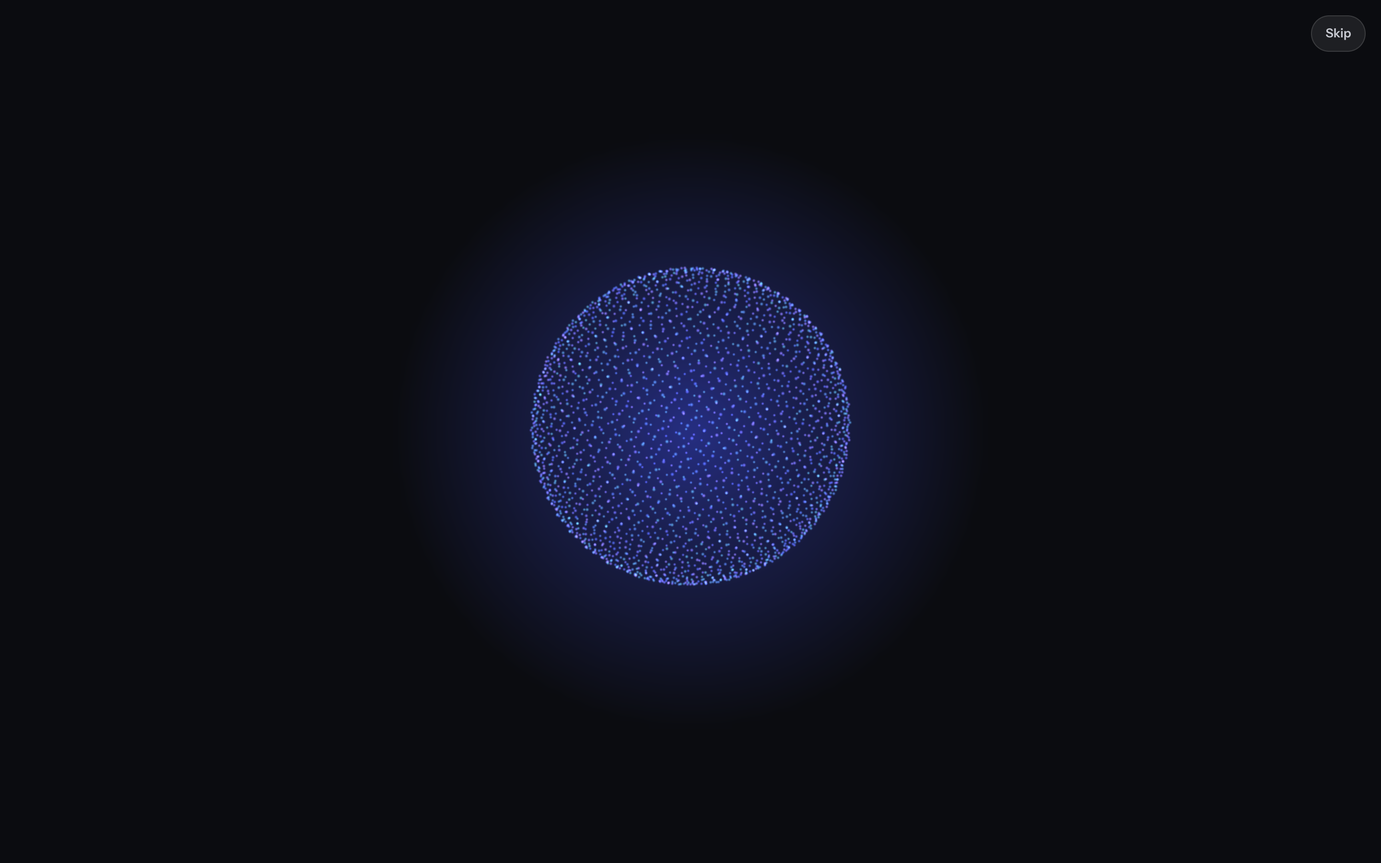
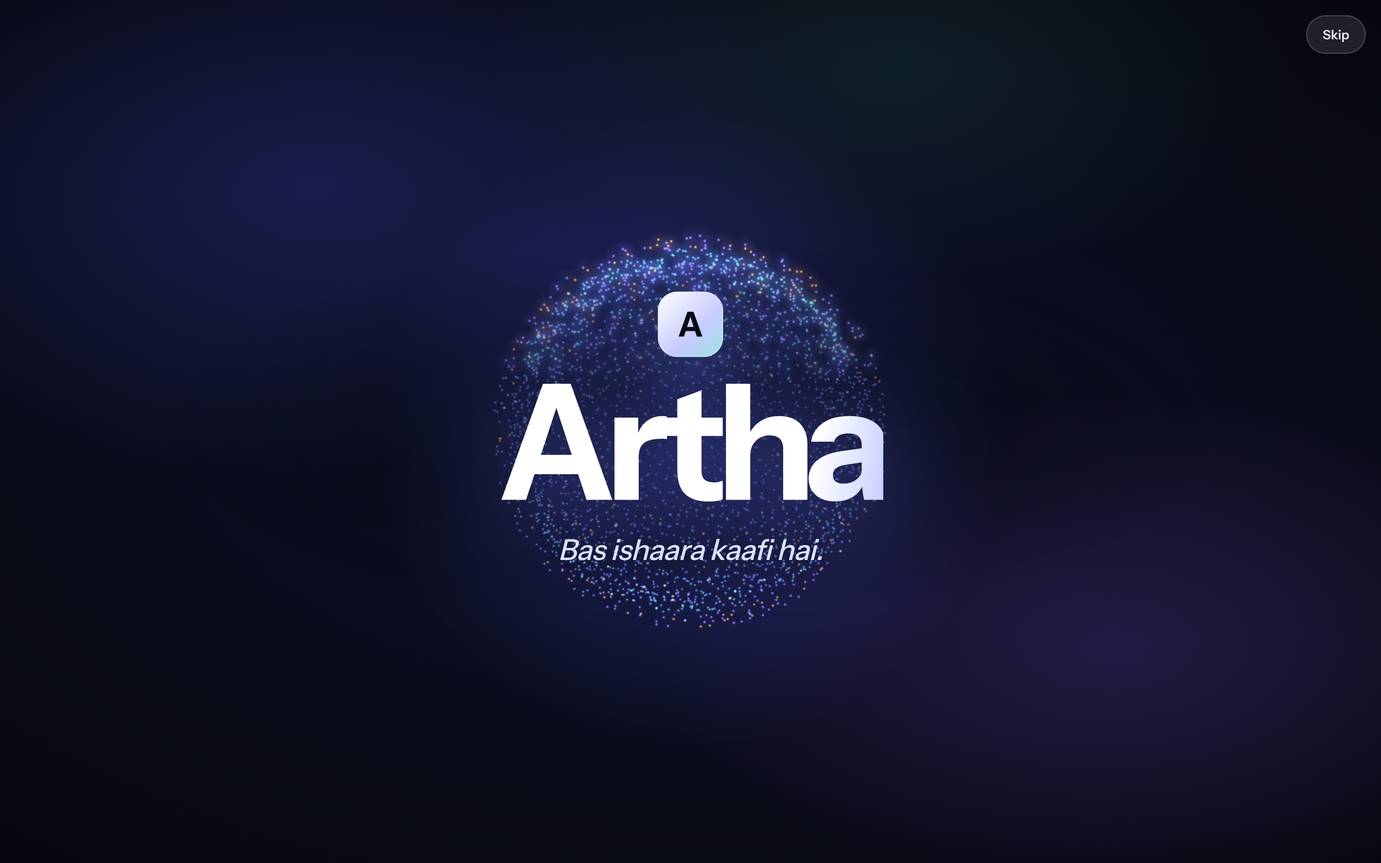
Intro: Bolo in six scripts, legible type with soft backdrops, glowing particle field, what Artha understood (who/when/how much), round orb on phones; timings hidden unless ?debug=1

diff --git a/web/src/Intro.tsx b/web/src/Intro.tsx
@@ -1,15 +1,23 @@
-// The opening, about six seconds, told by one field of light:
-//   1. real voice notes from the demo people, in their own scripts   "Voice notes, in your language"
-//   2. they become one voice wave
-//   3. the wave folds into Artha's orb                               "Artha · Bas ishaara kaafi hai."
+// The opening, about seven seconds, told by one field of light:
+//   1. "Bolo" in six scripts, real voice notes floating around it      "Just say it, in your language."
+//   2. the field becomes one voice wave                                  "Artha listens."
+//   3. the wave folds into Artha's orb; what it understood flies out      who · when · how much
+//   4. the name                                                           "Artha · Bas ishaara kaafi hai."
 // Then the orb drops to where the app's orb lives and the app takes over.
-// One Points mesh, positions blended on the CPU between four shapes; GSAP drives the blend and the words.
+// One Points cloud (plus a soft halo copy for glow), positions blended on the CPU between shapes; GSAP drives it all.
 import gsap from 'gsap';
 import { useEffect, useRef } from 'react';
 import * as THREE from 'three';
 
-const N = 2600;
-const FRAGMENTS = ['Mehta ji ko bol do', 'అమ్మకి చెప్పు', 'செல்விக்கு சொல்லு', 'दुधवाल्यांना पैसे पाठवा', 'Balwinder nu dasso', 'রিয়াকে বলো', 'khate mein likh do', 'kal 4 baje', 'dhai hazaar', 'Salma apa ko bolo'];
+const N = 2800;
+const FRAGMENTS = ['Mehta ji ko bol do', 'అమ్మకి చెప్పు', 'செல்விக்கு சொல்லு', 'दुधवाल्यांना पैसे पाठवा', 'Balwinder nu dasso', 'রিয়াকে বলো', 'khate mein likh do', 'Salma apa ko bolo'];
+const FRAG_POS: [number, number][] = [[6, 14], [70, 10], [4, 74], [64, 80], [74, 32], [10, 40], [36, 88], [40, 6]];
+const WORDS = ['बोलो', 'சொல்லு', 'చెప్పు', 'ਦੱਸੋ', 'বলো', 'Say it.'];
+const CHIPS = [
+  { k: 'who', heard: 'Ayush', got: 'your cricket friend' },
+  { k: 'when', heard: 'kal 7 baje', got: 'Sun, 7:00 AM' },
+  { k: 'money', heard: 'dhai hazaar', got: '₹2,500' },
+];
 
 export function shouldShowIntro() {
   if (typeof window === 'undefined') return false;
@@ -20,10 +28,11 @@ export function shouldShowIntro() {
   try { return sessionStorage.getItem('artha.intro') !== 'seen'; } catch { return true; }
 }
 
-function dotTexture() {
+function dotTexture(soft = false) {
   const c = document.createElement('canvas'); c.width = c.height = 64;
   const g = c.getContext('2d')!; const r = g.createRadialGradient(32, 32, 0, 32, 32, 32);
-  r.addColorStop(0, 'rgba(255,255,255,1)'); r.addColorStop(.35, 'rgba(255,255,255,.55)'); r.addColorStop(1, 'rgba(255,255,255,0)');
+  if (soft) { r.addColorStop(0, 'rgba(255,255,255,.9)'); r.addColorStop(.25, 'rgba(255,255,255,.35)'); r.addColorStop(1, 'rgba(255,255,255,0)'); }
+  else { r.addColorStop(0, 'rgba(255,255,255,1)'); r.addColorStop(.3, 'rgba(255,255,255,.8)'); r.addColorStop(.6, 'rgba(255,255,255,.15)'); r.addColorStop(1, 'rgba(255,255,255,0)'); }
   g.fillStyle = r; g.fillRect(0, 0, 64, 64);
   return new THREE.CanvasTexture(c);
 }
@@ -38,7 +47,7 @@ export function Intro({ onDone }: { onDone: () => void }) {
     const w = () => host.clientWidth, h = () => host.clientHeight;
     const renderer = new THREE.WebGLRenderer({ antialias: true, alpha: true });
     renderer.setPixelRatio(Math.min(2, window.devicePixelRatio));
-    renderer.setSize(w(), h(), false);   // CSS sizes the canvas; we only size the drawing buffer
+    renderer.setSize(w(), h(), false);
     host.appendChild(renderer.domElement);
     let lastW = 0, lastH = 0;
     const scene = new THREE.Scene();
@@ -46,31 +55,39 @@ export function Intro({ onDone }: { onDone: () => void }) {
     camera.position.set(0, 0, 13);
     const narrow = () => w() < 640;
 
-    // four shapes for the same points
+    // the same points take four shapes: a scattered field, a voice wave, the orb, and the exit
     const cloud = new Float32Array(N * 3), wave = new Float32Array(N * 3), sphere = new Float32Array(N * 3), seed = new Float32Array(N);
     for (let i = 0; i < N; i++) {
       seed[i] = Math.random();
-      cloud.set([(Math.random() - .5) * 22, (Math.random() - .5) * 12, (Math.random() - .5) * 8], i * 3);
-      const strand = i % 3, u = (i / N) * 2 - 1;
-      wave.set([u * 9, 0, (strand - 1) * .35], i * 3);
+      const r = 4 + Math.random() * 9, a = Math.random() * Math.PI * 2;           // a ring-ish field, so the centre stays clear for words
+      cloud.set([Math.cos(a) * r * 1.25, Math.sin(a) * r * .62, (Math.random() - .5) * 9], i * 3);
+      const strand = i % 4, u = (i / N) * 2 - 1;
+      wave.set([u * 10, 0, (strand - 1.5) * .3], i * 3);
       const y = 1 - (i / (N - 1)) * 2, rr = Math.sqrt(1 - y * y), th = i * 2.399963;
       sphere.set([Math.cos(th) * rr * 2.3, y * 2.3, Math.sin(th) * rr * 2.3], i * 3);
     }
     const pos = new Float32Array(cloud);
     const col = new Float32Array(N * 3);
-    const cA = new THREE.Color('#5b6cff'), cB = new THREE.Color('#b18cff'), cC = new THREE.Color('#5fd1c4'), tmp = new THREE.Color();
-    for (let i = 0; i < N; i++) { tmp.copy(cA).lerp(seed[i] > .5 ? cB : cC, Math.abs(seed[i] - .5) * 1.6); col.set([tmp.r, tmp.g, tmp.b], i * 3); }
+    const blue = new THREE.Color('#6a7bff'), violet = new THREE.Color('#b48cff'), teal = new THREE.Color('#5fe0cf'), saffron = new THREE.Color('#ffb347'), tmp = new THREE.Color();
+    for (let i = 0; i < N; i++) {
+      if (seed[i] > .93) tmp.copy(saffron);                                       // a few warm sparks
+      else tmp.copy(blue).lerp(seed[i] > .5 ? violet : teal, Math.abs(seed[i] - .5) * 1.7);
+      col.set([tmp.r, tmp.g, tmp.b], i * 3);
+    }
     const geo = new THREE.BufferGeometry();
     geo.setAttribute('position', new THREE.BufferAttribute(pos, 3));
     geo.setAttribute('color', new THREE.BufferAttribute(col, 3));
-    const mat = new THREE.PointsMaterial({ size: .11, map: dotTexture(), vertexColors: true, transparent: true, depthWrite: false, blending: THREE.AdditiveBlending, opacity: 0 });
-    const points = new THREE.Points(geo, mat);
-    scene.add(points);
-    // a soft glow behind the orb
-    const glow = new THREE.Mesh(new THREE.PlaneGeometry(9, 9), new THREE.MeshBasicMaterial({ map: dotTexture(), color: '#3f4fff', transparent: true, opacity: 0, depthWrite: false, blending: THREE.AdditiveBlending }));
-    glow.position.z = -1; scene.add(glow);
+    const mat = new THREE.PointsMaterial({ size: .12, map: dotTexture(), vertexColors: true, transparent: true, depthWrite: false, blending: THREE.AdditiveBlending, opacity: 0 });
+    const halo = new THREE.PointsMaterial({ size: .62, map: dotTexture(true), vertexColors: true, transparent: true, depthWrite: false, blending: THREE.AdditiveBlending, opacity: 0 });
+    // the glow uses a third of the points (they are in random order), so weaker phones keep 60 fps
+    const haloGeo = new THREE.BufferGeometry();
+    haloGeo.setAttribute('position', geo.getAttribute('position')); haloGeo.setAttribute('color', geo.getAttribute('color')); haloGeo.setDrawRange(0, Math.floor(N / 3));
+    const points = new THREE.Points(geo, mat), glowPts = new THREE.Points(haloGeo, halo);
+    scene.add(glowPts, points);
+    const glow = new THREE.Mesh(new THREE.PlaneGeometry(10, 10), new THREE.MeshBasicMaterial({ map: dotTexture(true), color: '#4b5cff', transparent: true, opacity: 0, depthWrite: false, blending: THREE.AdditiveBlending }));
+    glow.position.z = -1.5; scene.add(glow);
 
-    const s = { a: 0, b: 0, c: 0, d: 0, amp: 0 };   // cloud→wave, wave→orb, orb burst, exit
+    const s = { a: 0, b: 0, c: 0, d: 0, amp: 0, spin: 0 };   // field→wave, wave→orb, orb burst, exit
     const mouse = { x: 0, y: 0 };
     const onMove = (e: PointerEvent) => { mouse.x = (e.clientX / innerWidth - .5); mouse.y = (e.clientY / innerHeight - .5); };
     addEventListener('pointermove', onMove);
@@ -79,23 +96,22 @@ export function Intro({ onDone }: { onDone: () => void }) {
     const tick = () => {
       const t = (performance.now() - t0) / 1000;
       if (w() !== lastW || h() !== lastH) { lastW = w(); lastH = h(); renderer.setSize(lastW, lastH, false); camera.aspect = lastW / lastH; camera.updateProjectionMatrix(); }
-      const scale = narrow() ? .62 : 1;
+      const scale = narrow() ? .6 : 1, drop = narrow() ? 4.4 : 3.4;
       for (let i = 0; i < N; i++) {
         const k = i * 3, sd = seed[i];
-        // the wave lives: three strands, a travelling envelope like a voice
-        const x = wave[k], env = Math.exp(-((x / 9) ** 2) * 2.2);
-        const wy = Math.sin(x * 1.25 - t * 4 + (i % 3) * 1.9) * s.amp * env * (0.6 + .4 * Math.sin(x * .4 + t * 1.3)) + (sd - .5) * .12;
-        let px = cloud[k] + Math.sin(t * .3 + sd * 6) * .3, py = cloud[k + 1] + Math.cos(t * .25 + sd * 5) * .3, pz = cloud[k + 2];
+        const x = wave[k], env = Math.exp(-((x / 10) ** 2) * 2.4);                     // a voice: loud in the middle, quiet at the ends
+        const wy = Math.sin(x * 1.15 - t * 4.2 + (i % 4) * 1.6) * s.amp * env * (0.55 + .45 * Math.sin(x * .45 + t * 1.6)) + (sd - .5) * .1;
+        let px = cloud[k] + Math.sin(t * .35 + sd * 6) * .35, py = cloud[k + 1] + Math.cos(t * .3 + sd * 5) * .3, pz = cloud[k + 2];
         px += (x - px) * s.a; py += (wy - py) * s.a; pz += (wave[k + 2] - pz) * s.a;
-        const br = 1 + s.c * (.25 + sd * .5) * (0.5 + .5 * Math.sin(t * 2 + sd * 9));
+        const br = 1 + s.c * (.3 + sd * .6) * (0.5 + .5 * Math.sin(t * 2.2 + sd * 9));
         px += (sphere[k] * br - px) * s.b; py += (sphere[k + 1] * br - py) * s.b; pz += (sphere[k + 2] * br - pz) * s.b;
         const ex = 1 - s.d * .82;
-        pos[k] = px * scale * ex; pos[k + 1] = py * scale * ex - s.d * (narrow() ? 4.2 : 3.4); pos[k + 2] = pz * ex;
+        pos[k] = px * scale * ex; pos[k + 1] = (py * scale - (narrow() && s.b < .5 ? 0 : 0)) * ex - s.d * drop; pos[k + 2] = pz * scale * ex;   // shrink depth too, or the spinning orb looks oval on phones
       }
       geo.attributes.position.needsUpdate = true;
-      points.rotation.y = s.b * t * .25 + mouse.x * .3;
-      points.rotation.x = mouse.y * .2;
-      glow.position.y = -s.d * (narrow() ? 4.2 : 3.4);
+      const ry = s.spin * t * .28 + mouse.x * .35, rx = mouse.y * .22;
+      points.rotation.set(rx, ry, 0); glowPts.rotation.set(rx, ry, 0);
+      glow.position.y = -s.d * drop;
       renderer.render(scene, camera);
       raf = requestAnimationFrame(tick);
     };
@@ -107,33 +123,52 @@ export function Intro({ onDone }: { onDone: () => void }) {
     const q = (sel: string) => el.querySelectorAll<HTMLElement>(sel);
     gsap.ticker.lagSmoothing(0);   // the story keeps its real length even when a slow phone drops frames
     const tl = gsap.timeline({ defaults: { ease: 'power3.out' } });
-    // 1. real voice notes, in their own scripts
-    tl.to(mat, { opacity: .9, duration: .9 }, 0)
-      .fromTo(q('.frag'), { opacity: 0, y: 10 }, { opacity: (i: number) => .4 + (i % 3) * .2, y: 0, duration: .7, stagger: .05 }, .1)
-      .fromTo(q('.b1'), { opacity: 0, y: 12 }, { opacity: 1, y: 0, duration: .6 }, .35)
-      // 2. they become one voice
-      .to(q('.frag'), { opacity: 0, y: -8, duration: .45, stagger: .02 }, 1.7)
-      .to(q('.b1'), { opacity: 0, y: -10, duration: .4 }, 1.75)
-      .to(s, { a: 1, duration: 1.1, ease: 'power2.inOut' }, 1.7)
-      .to(s, { amp: 1.3, duration: .8, ease: 'sine.inOut' }, 1.9)
-      // 3. and Artha understands
-      .to(s, { b: 1, duration: 1.1, ease: 'expo.inOut' }, 3.0)
-      .to(s, { amp: 0, duration: .6 }, 3.0)
-      .to(glow.material, { opacity: .5, duration: .9 }, 3.4)
-      .to(s, { c: .6, duration: .35, ease: 'back.out(3)' }, 4.0).to(s, { c: .2, duration: .8 }, 4.35)
-      .fromTo(q('.b4 > *'), { opacity: 0, y: 16 }, { opacity: 1, y: 0, duration: .6, stagger: .1 }, 3.9);
+    // 1. Bolo, in six scripts, with real voice notes around it
+    tl.to(mat, { opacity: 1, duration: .8 }, 0).to(halo, { opacity: .13, duration: 1 }, 0)
+      .fromTo(q('.frag'), { opacity: 0, y: 14, scale: .94 }, { opacity: 1, y: 0, scale: 1, duration: .7, stagger: .05 }, .15)
+      .fromTo(q('.b1'), { opacity: 0 }, { opacity: 1, duration: .3 }, .2)
+      .fromTo(q('.b1 .sub'), { opacity: 0, y: 10 }, { opacity: 1, y: 0, duration: .6 }, .7);
+    const words = [...q('.vw')];
+    words.forEach((wd, i) => {
+      const at = .25 + i * .26;
+      tl.fromTo(wd, { opacity: 0, yPercent: 40, filter: 'blur(8px)' }, { opacity: 1, yPercent: 0, filter: 'blur(0px)', duration: .22, ease: 'power2.out' }, at);
+      if (i < words.length - 1) tl.to(wd, { opacity: 0, yPercent: -40, filter: 'blur(8px)', duration: .2, ease: 'power2.in' }, at + .24);
+    });
+    // 2. it becomes one voice
+    tl.to(q('.frag'), { opacity: 0, y: -10, duration: .4, stagger: .02 }, 2.1)
+      .to(q('.b1'), { opacity: 0, y: -14, duration: .4 }, 2.1)
+      .to(s, { a: 1, duration: 1.1, ease: 'power2.inOut' }, 2.05)
+      .to(s, { amp: 1.45, duration: .8, ease: 'sine.inOut' }, 2.3)
+      .fromTo(q('.b2'), { opacity: 0, y: 16, scale: .96 }, { opacity: 1, y: 0, scale: 1, duration: .6 }, 2.4)
+      // 3. Artha understands: who, when, how much
+      .to(q('.b2'), { opacity: 0, y: -12, duration: .35 }, 3.55)
+      .to(s, { b: 1, duration: 1.05, ease: 'expo.inOut' }, 3.5)
+      .to(s, { amp: 0, duration: .6 }, 3.5).to(s, { spin: 1, duration: 1.2 }, 3.6)
+      .to(glow.material, { opacity: .6, duration: .9 }, 3.9)
+      .to(s, { c: .7, duration: .35, ease: 'back.out(3)' }, 4.35).to(s, { c: .22, duration: .9 }, 4.7)
+      .fromTo(q('.chip-i'), { opacity: 0, scale: .6, x: 0, y: 0, xPercent: -50, yPercent: -50 },
+        { opacity: 1, scale: 1, xPercent: -50, yPercent: -50, x: (i: number) => (narrow() ? 0 : [-300, 300, 0][i]), y: (i: number) => (narrow() ? [-235, -170, 175][i] : [-70, -70, 175][i]), duration: .8, stagger: .12, ease: 'back.out(1.5)' }, 4.4)
+      .fromTo(q('.b3'), { opacity: 0, y: 12 }, { opacity: 1, y: 0, duration: .5 }, 4.7)
+      // 4. the name
+      .to(q('.chip-i'), { opacity: 0, scale: .85, x: 0, y: 0, duration: .45, stagger: .04, ease: 'power2.in' }, 6.0)
+      .to(q('.b3'), { opacity: 0, duration: .3 }, 6.0)
+      .fromTo(q('.b4 > *'), { opacity: 0, y: 22 }, { opacity: 1, y: 0, duration: .7, stagger: .1 }, 6.25)
+      .fromTo(q('.name'), { backgroundPosition: '120% 0' }, { backgroundPosition: '-20% 0', duration: 1.6, ease: 'power1.inOut' }, 6.3);
     const finish = () => {
       if (done.current) return; done.current = true;
       try { sessionStorage.setItem('artha.intro', 'seen'); } catch { /* */ }
       tl.pause();
       gsap.timeline({ onComplete: onDone })
-        .to(q('.b4, .b1, .skip'), { opacity: 0, duration: .35 }, 0)
-        .to(s, { d: 1, duration: 1, ease: 'expo.inOut' }, 0)
-        .to(el, { backgroundColor: 'rgba(11,12,16,0)', duration: .9, ease: 'power2.inOut' }, .2)
-        .to(mat, { opacity: 0, duration: .5 }, .7)
+        .to(q('.b1, .b2, .b3, .b4, .chip-i, .frag, .skip'), { opacity: 0, duration: .3 }, 0)
+        .to(s, { b: 1, a: 1, amp: 0, d: 1, duration: 1, ease: 'expo.inOut' }, 0)
+        .to(el, { '--fade': 0, duration: .9, ease: 'power2.inOut' } as any, .2)
+        .to([mat, halo], { opacity: 0, duration: .5 }, .7)
         .to(glow.material, { opacity: 0, duration: .5 }, .6);
     };
-    tl.call(finish, [], 6.2);
+    tl.call(finish, [], 7.9);
+    // ?intro=1&introAt=4.6 freezes the intro at that second (for checking a beat)
+    const at = Number(new URLSearchParams(location.search).get('introAt'));
+    if (at > 0) { tl.seek(Math.min(at, 7.8)).pause(); }
     const onKey = (e: KeyboardEvent) => { if (['Enter', ' ', 'Escape'].includes(e.key)) finish(); };
     addEventListener('keydown', onKey);
     (el as any)._finish = finish;
@@ -141,16 +176,23 @@ export function Intro({ onDone }: { onDone: () => void }) {
     return () => {
       tl.kill(); cancelAnimationFrame(raf); gsap.ticker.lagSmoothing(500, 33);
       removeEventListener('pointermove', onMove); removeEventListener('resize', onResize); ro.disconnect(); removeEventListener('keydown', onKey);
-      geo.dispose(); mat.dispose(); renderer.dispose(); renderer.domElement.remove();
+      geo.dispose(); haloGeo.dispose(); mat.dispose(); halo.dispose(); renderer.dispose(); renderer.domElement.remove();
     };
   }, [onDone]);
 
   const finish = () => (root.current as any)?._finish?.();
   return (
     <div className="intro" ref={root} role="dialog" aria-label="Artha introduction" onClick={finish}>
+      <div className="intro-sky" aria-hidden="true" />
       <div className="intro-gl" ref={canvasHost} />
-      <div className="frags" aria-hidden="true">{FRAGMENTS.map((f, i) => <span key={f} className="frag" style={{ left: `${[8, 64, 22, 70, 6, 52, 30, 78, 14, 44][i]}%`, top: `${[16, 12, 30, 34, 62, 70, 82, 58, 44, 22][i]}%` }}>{f}</span>)}</div>
-      <div className="beat b1 low"><p className="eyebrow">Voice notes, in your language</p></div>
+      <div className="frags" aria-hidden="true">{FRAGMENTS.map((f, i) => <span key={f} className={`frag ${FRAG_POS[i][0] > 50 ? 'r' : ''}`} style={{ left: `${FRAG_POS[i][0]}%`, top: `${FRAG_POS[i][1]}%` }}>{f}</span>)}</div>
+      <div className="beat b1">
+        <div className="vwords" aria-label="Bolo, in six languages">{WORDS.map(wd => <span key={wd} className="vw">{wd}</span>)}</div>
+        <p className="sub">Just say it, in your language.</p>
+      </div>
+      <div className="beat b2"><h2 className="big">Artha listens.</h2></div>
+      <div className="chips-i" aria-hidden="true">{CHIPS.map(c => <span key={c.k} className={`chip-i ${c.k}`}><i /><em>“{c.heard}”</em><span className="arr">→</span><b>{c.got}</b></span>)}</div>
+      <div className="beat b3 low"><p>Knows who you mean, and when, and how much.</p></div>
       <div className="beat b4">
         <span className="mark">A</span>
         <h1 className="name">Artha</h1>

diff --git a/web/src/styles.css b/web/src/styles.css
@@ -367,30 +367,61 @@ a.btn { text-decoration: none; }
 .kd { color: var(--green); font-size: 12px; font-weight: 600; display: grid; place-items: center; width: 64px; }
 
 /* ================= intro ================= */
-.intro { position: fixed; inset: 0; z-index: 100; background: #0b0c10; color: #f3f2ee; overflow: hidden; cursor: pointer; font-family: var(--font); }
+.intro { --fade: 1; position: fixed; inset: 0; z-index: 100; overflow: hidden; cursor: pointer; color: #f6f5ff; font-family: var(--font);
+  background: rgb(6 7 14 / var(--fade)); }
+.intro-sky { position: absolute; inset: -20%; opacity: var(--fade); pointer-events: none;
+  background: radial-gradient(40% 35% at 30% 30%, rgba(76, 92, 255, .22), transparent 70%), radial-gradient(35% 30% at 72% 68%, rgba(150, 95, 255, .18), transparent 70%),
+              radial-gradient(30% 25% at 60% 20%, rgba(70, 210, 190, .10), transparent 70%), radial-gradient(70% 60% at 50% 50%, rgba(20, 24, 60, .6), transparent 80%);
+  animation: sky 14s ease-in-out infinite alternate; }
+@keyframes sky { to { transform: translate3d(3%, -2%, 0) rotate(4deg) scale(1.05); } }
 .intro-gl { position: absolute; inset: 0; } .intro-gl canvas { display: block; width: 100%; height: 100%; }
-.intro .beat { position: absolute; left: 50%; top: 50%; transform: translate(-50%, -50%); width: min(880px, calc(100% - 40px)); text-align: center; pointer-events: none; opacity: 0; }
-.intro .b1 { opacity: 1; } .intro .b1 .w { display: inline-block; opacity: 0; margin: 0 .12em; }
-.intro .eyebrow { font-size: 12.5px; font-weight: 700; letter-spacing: .22em; text-transform: uppercase; color: #8f9bff; margin-bottom: 18px; }
-.intro h1 { font-size: clamp(30px, 5.4vw, 64px); font-weight: 600; letter-spacing: -.045em; line-height: 1.04; text-wrap: balance; }
-.intro .big { font-size: clamp(44px, 9vw, 120px); letter-spacing: -.06em; background: linear-gradient(100deg, #fff 20%, #a9b3ff 60%, #7ee0d3); -webkit-background-clip: text; background-clip: text; color: transparent; }
-.intro .low { top: auto; bottom: 11vh; transform: translateX(-50%); }
-.intro .b3 p { font-size: clamp(17px, 2.2vw, 24px); color: #c9cbd3; letter-spacing: -.01em; } .intro .b3 b { color: #fff; font-weight: 600; }
+.intro .beat { position: absolute; left: 50%; top: 50%; transform: translate(-50%, -50%); width: min(960px, calc(100% - 40px)); text-align: center; pointer-events: none; opacity: 0; display: grid; justify-items: center; gap: 14px; }
+/* every line gets a soft dark halo behind it, so it reads over the light */
+.intro .beat::before { content: ''; position: absolute; inset: -18% -8%; z-index: -1; background: radial-gradient(closest-side, rgba(6, 7, 14, .78), rgba(6, 7, 14, .35) 60%, transparent); filter: blur(6px); }
+.intro .vwords { position: relative; height: clamp(76px, 13vw, 150px); width: 100%; }
+.intro .vw { position: absolute; inset: 0; display: grid; place-items: center; opacity: 0; font-weight: 700; letter-spacing: -.03em; line-height: 1;
+  font-size: clamp(64px, 12vw, 140px); font-family: var(--font), 'Noto Sans Tamil', 'Noto Sans Telugu', 'Noto Sans Gurmukhi', 'Noto Sans Bengali', sans-serif;
+  background: linear-gradient(180deg, #ffffff 30%, #c9cfff); -webkit-background-clip: text; background-clip: text; color: transparent;
+  filter: drop-shadow(0 6px 40px rgba(110, 125, 255, .55)); }
+.intro .sub { font-size: clamp(18px, 2.4vw, 26px); font-weight: 500; color: #e4e6ff; letter-spacing: -.01em; text-shadow: 0 2px 20px rgba(0, 0, 0, .6); }
+.intro .big { margin: 0; font-size: clamp(48px, 9vw, 112px); font-weight: 700; letter-spacing: -.055em; line-height: 1;
+  background: linear-gradient(100deg, #ffffff 25%, #b9c2ff 55%, #7ff0de 90%); -webkit-background-clip: text; background-clip: text; color: transparent;
+  filter: drop-shadow(0 8px 44px rgba(90, 110, 255, .55)); }
+.intro .b2 { top: 30%; }
+.intro .low { top: auto; bottom: 9vh; transform: translateX(-50%); }
+.intro .b3 p { font-size: clamp(18px, 2.4vw, 26px); font-weight: 600; color: #f1f1ff; letter-spacing: -.015em; text-shadow: 0 2px 24px rgba(0, 0, 0, .7); }
 .intro .frags { position: absolute; inset: 0; pointer-events: none; }
-.intro .frag { position: absolute; font-size: clamp(13px, 1.5vw, 17px); color: #cfd3ff; padding: 6px 12px; border: 1px solid rgba(160,170,255,.22); border-radius: 999px; background: rgba(40,46,90,.25); backdrop-filter: blur(6px); white-space: nowrap; opacity: 0; font-family: var(--font), 'Noto Sans Bengali', 'Noto Sans Gurmukhi', sans-serif; }
+.intro .frag { position: absolute; opacity: 0; white-space: nowrap; font-size: clamp(13px, 1.45vw, 17px); font-weight: 600; color: #f2f3ff;
+  padding: 8px 14px; border-radius: 999px; background: linear-gradient(180deg, rgba(255, 255, 255, .14), rgba(255, 255, 255, .06));
+  border: 1px solid rgba(255, 255, 255, .22); box-shadow: 0 10px 30px -12px rgba(80, 100, 255, .7), inset 0 1px 0 rgba(255, 255, 255, .18); backdrop-filter: blur(8px);
+  font-family: var(--font), 'Noto Sans Bengali', 'Noto Sans Gurmukhi', sans-serif; }
+.intro .frag::before { content: ''; display: inline-block; width: 7px; height: 7px; margin-right: 8px; border-radius: 50%; background: #7ff0de; box-shadow: 0 0 10px #7ff0de; vertical-align: 1px; }
 .intro .chips-i { position: absolute; left: 50%; top: 50%; width: 0; height: 0; pointer-events: none; }
-.intro .chip-i { position: absolute; display: inline-flex; align-items: center; gap: 9px; white-space: nowrap; padding: 10px 16px; border-radius: 16px; font-size: clamp(13px, 1.4vw, 16px); font-weight: 600; color: #fff; background: rgba(22,24,36,.72); border: 1px solid rgba(255,255,255,.12); box-shadow: 0 20px 50px -20px rgba(80,96,255,.7); backdrop-filter: blur(10px); opacity: 0; left: 0; top: 0; }
-.intro .chip-i i { width: 9px; height: 9px; border-radius: 50%; background: #8f9bff; box-shadow: 0 0 12px currentColor; }
-.intro .chip-i.when i { background: #c49df1; } .intro .chip-i.money i { background: #62c890; } .intro .chip-i.act i { background: #5fd1c4; }
-.intro .b4 { display: grid; justify-items: center; gap: 10px; pointer-events: auto; opacity: 1; }
+.intro .chip-i { position: absolute; left: 0; top: 0; opacity: 0; display: inline-flex; align-items: center; gap: 10px; white-space: nowrap;
+  padding: 12px 18px; border-radius: 18px; font-size: clamp(14px, 1.5vw, 17px); color: #fff;
+  background: linear-gradient(180deg, rgba(30, 34, 60, .92), rgba(16, 18, 34, .92)); border: 1px solid rgba(255, 255, 255, .16);
+  box-shadow: 0 24px 60px -24px rgba(90, 110, 255, .9), inset 0 1px 0 rgba(255, 255, 255, .12); backdrop-filter: blur(12px); }
+.intro .chip-i i { width: 10px; height: 10px; border-radius: 50%; flex: none; background: #8f9bff; box-shadow: 0 0 14px #8f9bff; }
+.intro .chip-i.when i { background: #c49df1; box-shadow: 0 0 14px #c49df1; } .intro .chip-i.money i { background: #ffb347; box-shadow: 0 0 14px #ffb347; }
+.intro .chip-i em { font-style: normal; color: #c4c8e8; } .intro .chip-i .arr { color: #7ff0de; font-weight: 700; } .intro .chip-i b { font-weight: 700; }
+.intro .b4 { display: grid; justify-items: center; gap: 12px; opacity: 1; }
 .intro .b4 > * { opacity: 0; }
-.intro .mark { width: 64px; height: 64px; border-radius: 18px; display: grid; place-items: center; font-size: 34px; font-weight: 700; color: #0b0c10; background: linear-gradient(135deg, #fff, #c8ceff); box-shadow: 0 20px 60px -15px rgba(110,125,255,.8); }
-.intro .name { font-size: clamp(52px, 10vw, 132px); letter-spacing: -.065em; line-height: .95; }
-.intro .tag { font-size: clamp(18px, 2.6vw, 28px); color: #b9bdf5; font-style: italic; letter-spacing: -.01em; }
-.intro .go { margin-top: 14px; height: 48px; padding: 0 26px; border-radius: 999px; background: #fff; color: #0b0c10; font-weight: 700; font-size: 15.5px; box-shadow: 0 16px 40px -14px rgba(255,255,255,.5); transition: transform .2s; }
-.intro .go:hover { transform: translateY(-2px); }
-.intro .skip { position: absolute; top: max(16px, env(safe-area-inset-top)); right: 16px; padding: 8px 14px; border-radius: 999px; font-size: 13px; font-weight: 600; color: #c9cbd3; background: rgba(255,255,255,.08); border: 1px solid rgba(255,255,255,.12); }
-@media (max-width: 640px) { .intro .frag:nth-child(n+7) { display: none; } .intro .low { bottom: 8vh; } }
+.intro .mark { width: 68px; height: 68px; border-radius: 20px; display: grid; place-items: center; font-size: 36px; font-weight: 700; color: #090a12;
+  background: linear-gradient(135deg, #ffffff, #c8ceff 60%, #9fe9dd); box-shadow: 0 24px 70px -14px rgba(110, 125, 255, .9), 0 0 0 1px rgba(255, 255, 255, .4) inset; }
+.intro .name { margin: 0; font-size: clamp(72px, 13vw, 168px); font-weight: 700; letter-spacing: -.07em; line-height: .92;
+  background: linear-gradient(100deg, #ffffff 0%, #ffffff 38%, #b6c0ff 48%, #7ff0de 52%, #ffffff 62%, #ffffff 100%); background-size: 250% 100%;
+  -webkit-background-clip: text; background-clip: text; color: transparent; filter: drop-shadow(0 10px 50px rgba(100, 115, 255, .55)); }
+.intro .tag { font-size: clamp(20px, 2.8vw, 30px); font-weight: 500; font-style: italic; color: #dfe2ff; letter-spacing: -.01em; text-shadow: 0 2px 20px rgba(0, 0, 0, .6); }
+.intro .skip { position: absolute; top: max(16px, env(safe-area-inset-top)); right: max(16px, env(safe-area-inset-right)); padding: 9px 16px; border-radius: 999px;
+  font-size: 13.5px; font-weight: 600; color: #e9eaff; background: rgba(255, 255, 255, .1); border: 1px solid rgba(255, 255, 255, .2); backdrop-filter: blur(8px); }
+@media (max-width: 640px) {
+  .intro .frag:nth-child(n+6) { display: none; }
+  .intro .frag { font-size: 12.5px; padding: 6px 11px; }
+  .intro .frag.r { left: auto !important; right: 4%; }
+  .intro .chip-i { font-size: 13.5px; padding: 10px 14px; gap: 7px; }
+  .intro .b2 { top: 27%; }
+}
+@media (prefers-reduced-motion: reduce) { .intro-sky { animation: none; } }
 
 /* answers as a headline + labelled points */
 .say.answer { display: flex; align-items: flex-start; gap: 10px; padding: 12px 14px 12px 10px; cursor: default; max-width: min(92%, 560px); }

diff --git a/web/src/App.tsx b/web/src/App.tsx
@@ -37,6 +37,7 @@ type Run = {
   compare?: { loading: boolean; baseHeard?: string; base?: Result; ctx?: Result; error?: string };
 };
 let seq = 0;
+const SHOW_TIMES = typeof location !== 'undefined' && new URLSearchParams(location.search).has('debug');
 const nonLatin = (s: string) => /[ऀ-෿]/.test(s);
 const first = (n?: string) => n?.split(' ')[0] ?? '';
 const fmtTime = (iso: string) => { const d = new Date(iso); return d.toDateString() === new Date().toDateString() ? d.toLocaleTimeString('en-IN', { hour: 'numeric', minute: '2-digit' }) : d.toLocaleDateString('en-IN', { day: 'numeric', month: 'short' }); };
@@ -472,7 +473,7 @@ function Note({ run, persona, onAct, onSkip, onAll, onChoose, onCompare, onRepla
   useLayoutEffect(() => { if (pointsRef.current) gsap.from(pointsRef.current.children, { x: -6, opacity: 0, duration: .35, stagger: .05, ease: 'power2.out' }); }, [res?.reply_points?.length]);
   const ledgerIdx = res?.actions.flatMap((a, i) => (a.type === 'ledger' ? [i] : [])) ?? [];
   const safeLeft = res?.actions.filter((a, i) => ['message', 'calendar', 'reminder', 'ledger'].includes(a.type) && !run.done[i]).length ?? 0;
-  const T = run.times ?? {};
+  const T = SHOW_TIMES ? run.times ?? {} : {};   // timings are for us (?debug=1), not for the person using Artha
   const timeline = ([['Heard', T.heard], ['You said', T.gist], ['Voice', T.voice], ['Cards', T.cards]] as const).filter(([, v]) => v != null) as [string, number][];
   const contact = (id: string) => persona?.contacts.find(x => x.id === id);
 

diff --git a/web/index.html b/web/index.html
@@ -9,7 +9,7 @@
     <title>Artha · Bas ishaara kaafi hai</title>
     <link rel="icon" href="/icon.svg" type="image/svg+xml" />
     <link rel="preconnect" href="https://fonts.googleapis.com" />
-    <link rel="stylesheet" href="https://fonts.googleapis.com/css2?family=Instrument+Sans:wght@400;500;600;700&family=Noto+Sans+Devanagari:wght@400;600&family=Noto+Sans+Telugu:wght@400;600&family=Noto+Sans+Tamil:wght@400;600&display=swap" />
+    <link rel="stylesheet" href="https://fonts.googleapis.com/css2?family=Instrument+Sans:wght@400;500;600;700&family=Noto+Sans+Devanagari:wght@400;600;700&family=Noto+Sans+Telugu:wght@400;600;700&family=Noto+Sans+Tamil:wght@400;600;700&family=Noto+Sans+Gurmukhi:wght@600;700&family=Noto+Sans+Bengali:wght@600;700&display=swap" />
   </head>
   <body>
     <div id="root"></div>
